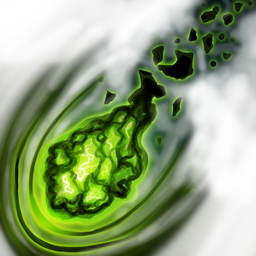
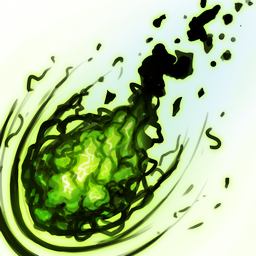
Outpost skill updates

diff --git a/packages/content/src/skills/onTheHook.ts b/packages/content/src/skills/onTheHook.ts
@@ -1,0 +1,28 @@
+import { buildSkill } from "../builders/buildSkill";
+
+export default buildSkill({
+	id: "on_the_hook",
+	name: "On the Hook",
+	description: "Reduce the enemy's Armour Class on a failed Dexterity saving throw.",
+	icon: "skills/unique/on_the_hook.png",
+	pool: "unique",
+	kind: "technique",
+	category: "debuff",
+	rarity: "uncommon",
+	maxUses: 3,
+	effects: [
+		{
+			type: "modifyStat",
+			target: "enemy",
+			stat: "armourClass",
+			value: -10,
+			duration: { unit: "turns", value: 3 },
+			save: {
+				attribute: "dexterity",
+				onSuccess: "noEffect",
+				dc: { attribute: "dexterity" },
+			},
+		},
+	],
+	tags: [],
+});

diff --git a/packages/content/src/skills/venomBolt.ts b/packages/content/src/skills/venomBolt.ts
@@ -4,7 +4,7 @@ export default buildSkill({
 	id: "venom_bolt",
 	name: "Venom Bolt",
 	description: "Make a ranged attack that deals poison damage.",
-	icon: "skills/common/unholy_bolt.png",
+	icon: "skills/common/venom_bolt.png",
 	pool: "common",
 	kind: "spellAttack",
 	category: "damage",

diff --git a/packages/content/src/enemies/goblinChieftainRotfang.ts b/packages/content/src/enemies/goblinChieftainRotfang.ts
@@ -36,7 +36,7 @@ export default buildEnemy({
 				attribute: "dexterity",
 			},
 		},
-		skillIds: ["rend", "go_for_the_eyes", "shield_wall"],
+		skillIds: ["rend", "go_for_the_eyes", "battle_cry"],
 		featIds: [],
 		tactic: "default",
 	},

diff --git a/packages/content/src/enemies/goblinSeer.ts b/packages/content/src/enemies/goblinSeer.ts
@@ -36,7 +36,7 @@ export default buildEnemy({
 				attribute: "intelligence",
 			},
 		},
-		skillIds: ["venom_bolt", "shocking_grasp", "spook"],
+		skillIds: ["venom_bolt", "acid_rain", "spook"],
 		featIds: [],
 		tactic: "caster",
 	},

diff --git a/packages/content/src/enemies/highExecutionerGrimhook.ts b/packages/content/src/enemies/highExecutionerGrimhook.ts
@@ -36,7 +36,7 @@ export default buildEnemy({
 				attribute: "strength",
 			},
 		},
-		skillIds: ["leap_attack", "rend"],
+		skillIds: ["leap_attack", "rend", "on_the_hook"],
 		featIds: [],
 		tactic: "aggressive",
 	},

diff --git a/packages/content/src/enemies/bloater.ts b/packages/content/src/enemies/bloater.ts
@@ -36,7 +36,7 @@ export default buildEnemy({
 				attribute: "strength",
 			},
 		},
-		skillIds: ["heavy_strike", "skull_bash"],
+		skillIds: ["heavy_strike"],
 		featIds: [],
 		tactic: "aggressive",
 	},
